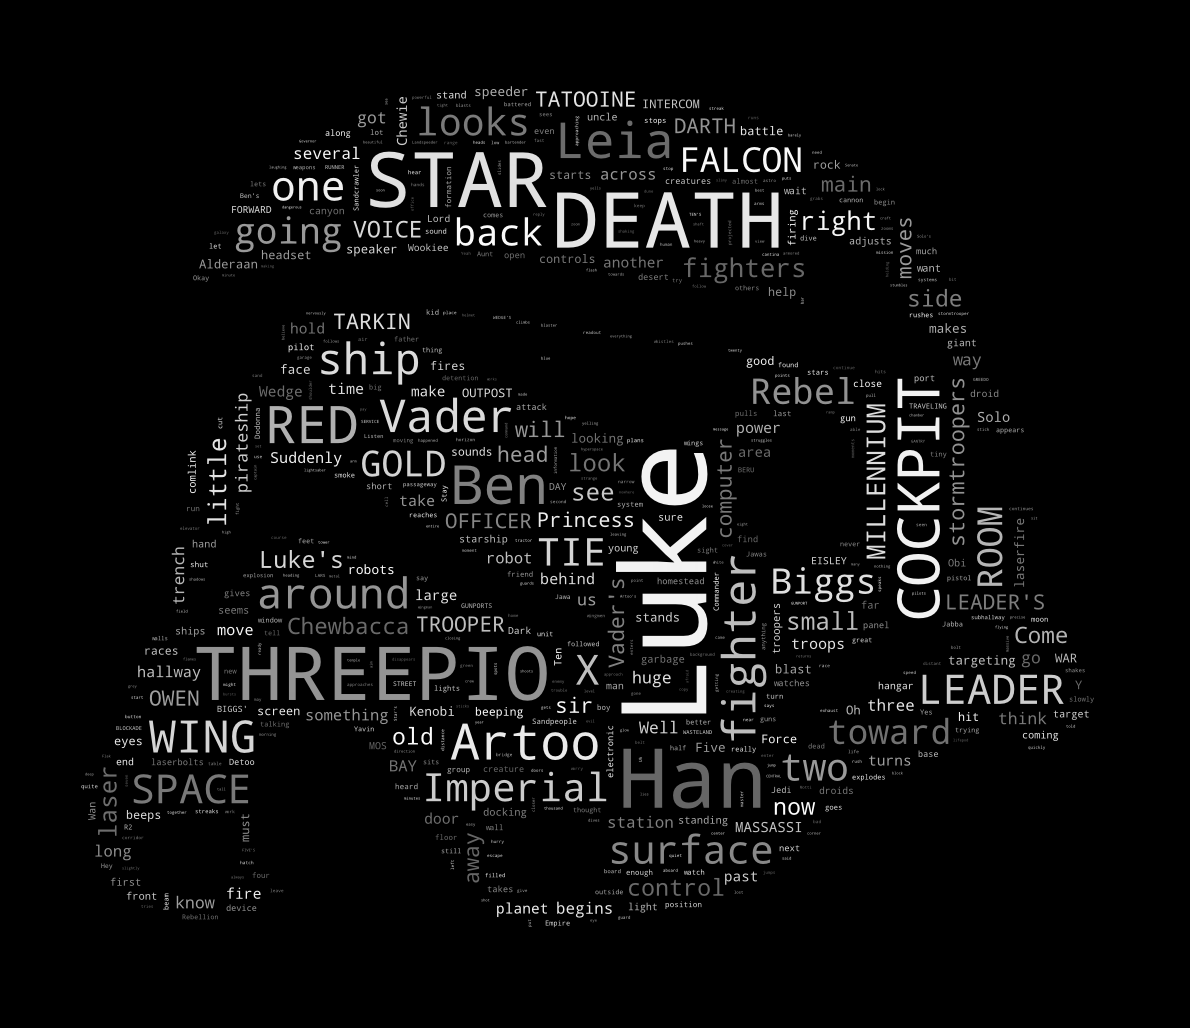
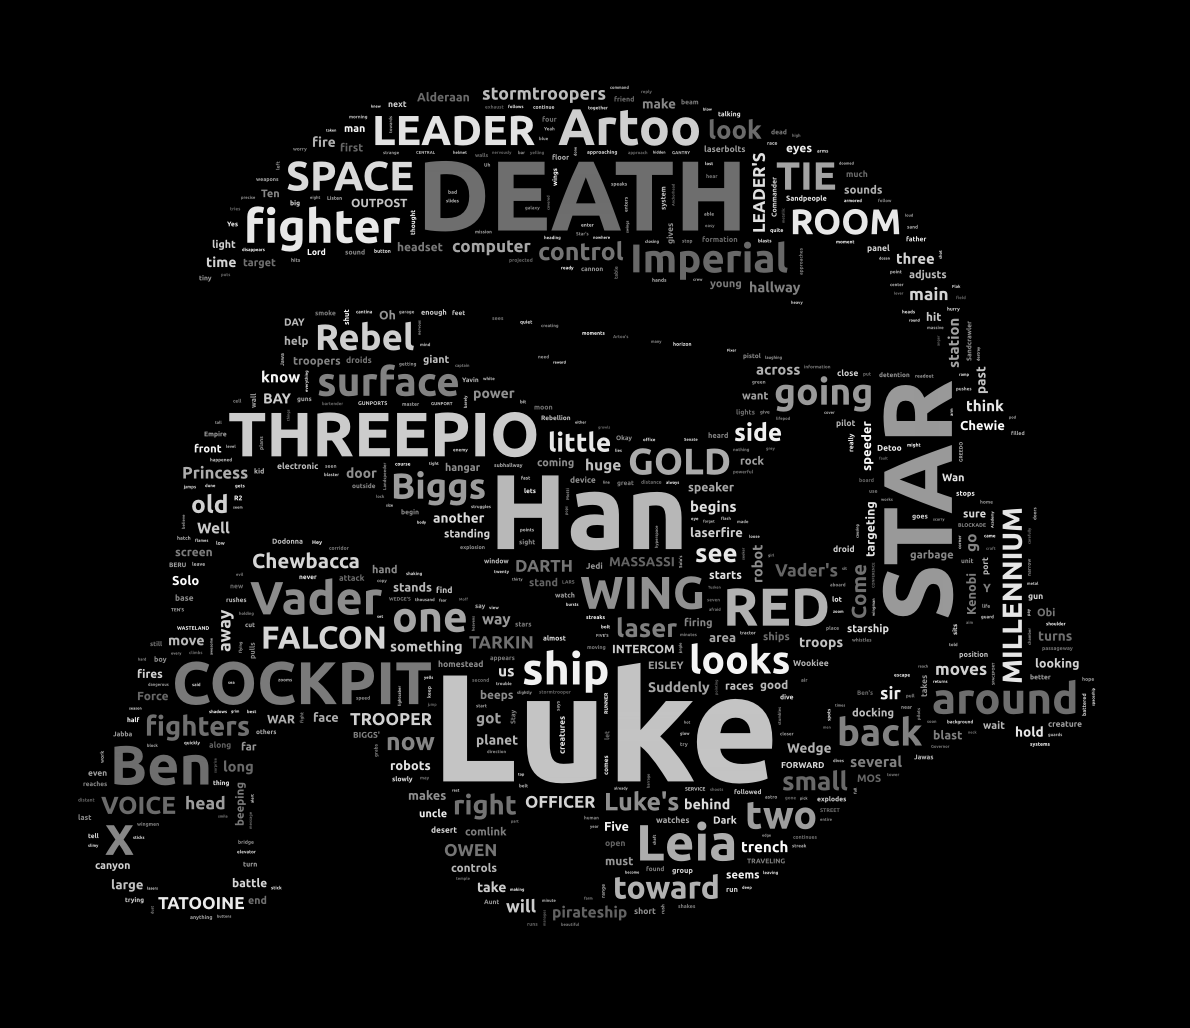
Update example to Ubuntu font

Changed region(s): [[0.0622, 0.0623, 0.9328, 0.9027]]

diff --git a/examples/custom_colors/main.rs b/examples/custom_colors/main.rs
@@ -1,5 +1,4 @@
 use std::collections::HashSet;
-use ab_glyph::{FontVec};
 use wcloud::{Tokenizer, WordCloud, WordCloudSize, Word, DEFAULT_EXCLUDE_WORDS_TEXT};
 use nanorand::{Rng, WyRand};
 use palette::{Pixel, Srgb, Hsl, IntoColor};
@@ -25,7 +24,6 @@ fn main() {
     let wordcloud = WordCloud::default()
         .with_tokenizer(tokenizer)
         .with_word_margin(10)
-        .with_font_from_path("fonts/Ubuntu-B.ttf".into())
         .with_rng_seed(1);
 
     let mask_buf = include_bytes!("stormtrooper_mask.png");
@@ -52,6 +50,6 @@ fn main() {
 
     println!("Generated in {}ms", now.elapsed().as_millis());
 
-    wordcloud_image.save("a_new_hope.png")
-        .expect("Unable to save image a_new_hope.png");
+    wordcloud_image.save("examples/custom_colors/a_new_hope.png")
+        .expect("Unable to save image");
 }
